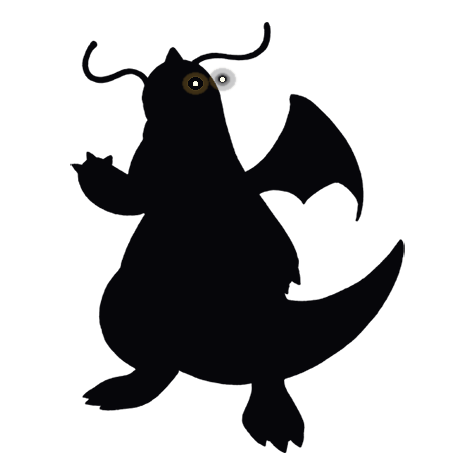
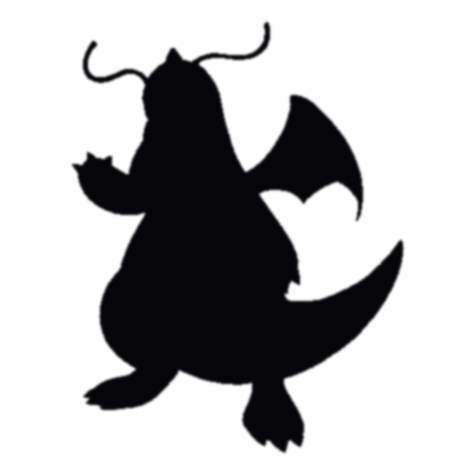
Short v3.1 Dragonite: Giant plate regenerated as clean silhouette (largest-component alpha rebuild — eye cores, rings, halo and detached eye island fully removed)

diff --git a/shorts/segments/sD/index.html b/shorts/segments/sD/index.html
@@ -189,7 +189,7 @@
 </div>
 <script src="assets/gsap.min.js"></script>
 <script>
-const C = {"id": "sD", "start": 0, "dur": 6.98, "types": ["Dragon", "Flying"], "world": ["Dragon", "Flying"], "duration": 6.98, "formLabel": "THE RANKING", "captions": [[0.0, "We ranked all six Dragonite forms", [0.0, 0.16, 0.32, 0.62, 0.86, 1.26], [3, 4]], [1.44, "from weakest to strongest,", [1.44, 1.64, 1.84, 2.12], [1, 3]], [2.84, "climbing past Dratini,", [2.84, 2.98, 3.22], [2]], [3.82, "the Giant, Shadow,", [3.82, 3.9, 4.34], [1, 2]], [4.88, "and Dragonair to base Dragonite", [4.88, 5.02, 5.4, 5.62, 5.82], [1, 4]], [6.24, "at number two\u2014", [6.24, 6.38, 6.5], [2]]], "heroes": [{"art": "Dratini.png", "sil": "Dratini_sil.png", "x": 200, "y": 310, "size": 680, "in": 2.94, "silUntil": 0, "idle": [4.04, 999], "out": 3.8, "punch": 3.27}, {"art": "Dragonite_giant_sil.png", "sil": "Dragonite_giant_sil.png", "x": 209, "y": 319, "size": 661, "in": 3.62, "silUntil": 0, "idle": [4.720000000000001, 999], "out": 4.24}, {"art": "Shadow_Dragonite.png", "sil": "Shadow_Dragonite_sil.png", "x": 237, "y": 344, "size": 613, "in": 4.06, "silUntil": 0, "idle": [5.16, 999], "out": 4.92, "punch": 4.39}, {"art": "Dragonair.png", "sil": "Dragonair_sil.png", "x": 209, "y": 319, "size": 661, "in": 4.74, "silUntil": 0, "idle": [5.84, 999], "out": 5.72, "punch": 5.07}, {"art": "Dragonite.png", "sil": "Dragonite_sil.png", "x": 209, "y": 319, "size": 661, "in": 5.54, "silUntil": 0, "idle": [6.640000000000001, 999], "punch": 5.87}], "headlines": [{"at": 0.05, "html": "WEAKEST TO <span class='gold'>STRONGEST</span>", "out": 6.9, "center": true, "y": 150, "size": 52}, {"at": 3.22, "html": "#6 DRATINI", "out": 3.54, "center": true, "y": 245, "size": 76}, {"at": 3.9, "html": "#5 GIANT", "out": 3.98, "center": true, "y": 245, "size": 76}, {"at": 4.34, "html": "#4 SHADOW", "out": 4.66, "center": true, "y": 245, "size": 76}, {"at": 5.02, "html": "#3 DRAGONAIR", "out": 5.46, "center": true, "y": 245, "size": 76}, {"at": 5.82, "html": "#2 DRAGONITE", "out": 6.93, "center": true, "y": 245, "size": 76}]};
+const C = {"id": "sD", "start": 0, "dur": 6.98, "types": ["Dragon", "Flying"], "world": ["Dragon", "Flying"], "duration": 6.98, "formLabel": "THE RANKING", "captions": [[0.0, "We ranked all six Dragonite forms", [0.0, 0.16, 0.32, 0.62, 0.86, 1.26], [3, 4]], [1.44, "from weakest to strongest,", [1.44, 1.64, 1.84, 2.12], [1, 3]], [2.84, "climbing past Dratini,", [2.84, 2.98, 3.22], [2]], [3.82, "the Giant, Shadow,", [3.82, 3.9, 4.34], [1, 2]], [4.88, "and Dragonair to base Dragonite", [4.88, 5.02, 5.4, 5.62, 5.82], [1, 4]], [6.24, "at number two\u2014", [6.24, 6.38, 6.5], [2]]], "heroes": [{"art": "Dratini.png", "sil": "Dratini_sil.png", "x": 200, "y": 310, "size": 680, "in": 2.94, "silUntil": 0, "idle": [4.04, 999], "out": 3.8, "punch": 3.27}, {"art": "Dragonite_giant_sil.png", "sil": "Dragonite_giant_sil.png", "x": 213, "y": 324, "size": 652, "in": 3.62, "silUntil": 0, "idle": [4.720000000000001, 999], "out": 4.24}, {"art": "Shadow_Dragonite.png", "sil": "Shadow_Dragonite_sil.png", "x": 237, "y": 344, "size": 613, "in": 4.06, "silUntil": 0, "idle": [5.16, 999], "out": 4.92, "punch": 4.39}, {"art": "Dragonair.png", "sil": "Dragonair_sil.png", "x": 209, "y": 319, "size": 661, "in": 4.74, "silUntil": 0, "idle": [5.84, 999], "out": 5.72, "punch": 5.07}, {"art": "Dragonite.png", "sil": "Dragonite_sil.png", "x": 209, "y": 319, "size": 661, "in": 5.54, "silUntil": 0, "idle": [6.640000000000001, 999], "punch": 5.87}], "headlines": [{"at": 0.05, "html": "WEAKEST TO <span class='gold'>STRONGEST</span>", "out": 6.9, "center": true, "y": 150, "size": 52}, {"at": 3.22, "html": "#6 DRATINI", "out": 3.54, "center": true, "y": 245, "size": 76}, {"at": 3.9, "html": "#5 GIANT", "out": 3.98, "center": true, "y": 245, "size": 76}, {"at": 4.34, "html": "#4 SHADOW", "out": 4.66, "center": true, "y": 245, "size": 76}, {"at": 5.02, "html": "#3 DRAGONAIR", "out": 5.46, "center": true, "y": 245, "size": 76}, {"at": 5.82, "html": "#2 DRAGONITE", "out": 6.93, "center": true, "y": 245, "size": 76}]};
 const TYPES = {"Normal": {"pill": ["#d8d6b8", "#a8a77a", "#7d7c52", "#5c5b3a"], "mote": ["m-star", "#ffffff"], "aurora": ["255,240,200", "200,200,180"], "attack": {"archetype": "field", "core": "#ffffff", "sheath": "#ffffff", "aura": "255,255,255"}, "world": {"sky": ["#292536", "#1d1a26", "#131020", "#08070f"], "glow": "rgba(200,190,255,.12)", "deep": "rgba(45,40,75,.5)", "env": "void"}}, "Fire": {"pill": ["#ffb066", "#ee8130", "#c85a10", "#96400a"], "mote": ["m-orb", "#ff9a3d"], "aurora": ["255,140,50", "255,80,40"], "attack": {"archetype": "beam", "core": "#ffffff", "sheath": "#ff9a3d", "aura": "255,154,61"}, "world": {"sky": ["#38150c", "#2b100a", "#1c0a06", "#0d0403"], "glow": "rgba(255,130,50,.16)", "deep": "rgba(80,20,5,.5)", "env": "ember"}}, "Water": {"pill": ["#a8c8ff", "#6390f0", "#3a68c8", "#2a4c96"], "mote": ["m-ring", "#a8dcff"], "aurora": ["90,160,255", "64,224,208"], "attack": {"archetype": "beam", "core": "#ffffff", "sheath": "#a8dcff", "aura": "168,220,255"}, "world": {"sky": ["#0d4266", "#093049", "#051e33", "#020c18"], "glow": "rgba(90,200,255,.17)", "deep": "rgba(2,24,48,.55)", "env": "sea"}}, "Electric": {"pill": ["#ffe066", "#f7d02c", "#d9a400", "#a87e00"], "mote": ["m-spark", "#ffd94d"], "aurora": ["255,217,77", "255,170,0"], "attack": {"archetype": "beam", "core": "#ffffff", "sheath": "#ffd94d", "aura": "255,217,77"}, "world": {"sky": ["#262262", "#1b1a52", "#121240", "#070722"], "glow": "rgba(140,130,255,.18)", "deep": "rgba(40,40,120,.5)", "env": "storm"}}, "Grass": {"pill": ["#b5e48c", "#7ac74c", "#57a02e", "#3f7a20"], "mote": ["m-leaf", "#7ee787"], "aurora": ["140,230,140", "90,200,160"], "attack": {"archetype": "field", "core": "#ffffff", "sheath": "#7ee787", "aura": "126,231,135"}, "world": {"sky": ["#14351f", "#0f2a19", "#081c10", "#040f08"], "glow": "rgba(110,255,160,.13)", "deep": "rgba(10,50,25,.5)", "env": "void"}}, "Ice": {"pill": ["#d8f4f2", "#96d9d6", "#64b8b4", "#478a88"], "mote": ["m-gem", "#bfefff"], "aurora": ["170,240,255", "140,200,255"], "attack": {"archetype": "beam", "core": "#ffffff", "sheath": "#bfefff", "aura": "191,239,255"}, "world": {"sky": ["#123446", "#0e2a3a", "#081c29", "#040e16"], "glow": "rgba(170,230,255,.18)", "deep": "rgba(20,60,90,.5)", "env": "void"}}, "Fighting": {"pill": ["#f08078", "#c22e28", "#96201c", "#6e1613"], "mote": ["m-orb", "#ff6b4a"], "aurora": ["255,110,70", "220,60,50"], "attack": {"archetype": "slam", "core": "#ffffff", "sheath": "#ff6b4a", "aura": "255,107,74"}, "world": {"sky": ["#381c0d", "#2b1509", "#1c0d05", "#0e0603"], "glow": "rgba(255,150,80,.14)", "deep": "rgba(70,35,10,.5)", "env": "void"}}, "Poison": {"pill": ["#d88fd8", "#a33ea1", "#7c2a7c", "#5a1d5a"], "mote": ["m-ring", "#c77dff"], "aurora": ["199,125,255", "140,80,220"], "attack": {"archetype": "swarm", "core": "#ffffff", "sheath": "#c77dff", "aura": "199,125,255"}, "world": {"sky": ["#2a1242", "#1e0f2e", "#130826", "#08040f"], "glow": "rgba(190,110,255,.15)", "deep": "rgba(50,15,90,.5)", "env": "void"}}, "Ground": {"pill": ["#f2dd9a", "#e2bf65", "#c09e42", "#8f742e"], "mote": ["m-orb", "#e8cc7a"], "aurora": ["240,210,130", "210,170,90"], "attack": {"archetype": "slam", "core": "#ffffff", "sheath": "#e8cc7a", "aura": "232,204,122"}, "world": {"sky": ["#33200f", "#241708", "#170d05", "#0b0603"], "glow": "rgba(255,200,110,.13)", "deep": "rgba(70,45,15,.5)", "env": "void"}}, "Flying": {"pill": ["#d3c6ff", "#a98ff3", "#8266d8", "#5f45ab"], "mote": ["m-leaf", "#e8f4ff"], "aurora": ["190,200,255", "150,220,255"], "attack": {"archetype": "swarm", "core": "#ffffff", "sheath": "#e8f4ff", "aura": "232,244,255"}, "world": {"sky": ["#16304f", "#10233d", "#0a1729", "#050b14"], "glow": "rgba(150,200,255,.16)", "deep": "rgba(25,55,100,.5)", "env": "void"}}, "Psychic": {"pill": ["#ff9ebb", "#f95587", "#d12c64", "#9c1f49"], "mote": ["m-orb", "#ff8fb8"], "aurora": ["255,120,180", "190,90,255"], "attack": {"archetype": "beam", "core": "#ffffff", "sheath": "#ff8fb8", "aura": "255,143,184"}, "world": {"sky": ["#33163f", "#260f33", "#180a24", "#0b0512"], "glow": "rgba(255,140,220,.15)", "deep": "rgba(70,20,100,.5)", "env": "void"}}, "Bug": {"pill": ["#d4e86a", "#a6b91a", "#7f9112", "#5c6a0c"], "mote": ["m-orb", "#d8f76a"], "aurora": ["200,240,110", "140,220,120"], "attack": {"archetype": "field", "core": "#ffffff", "sheath": "#d8f76a", "aura": "216,247,106"}, "world": {"sky": ["#1a3312", "#12260e", "#0a1a07", "#050d04"], "glow": "rgba(170,255,120,.13)", "deep": "rgba(20,55,15,.5)", "env": "canopy"}}, "Rock": {"pill": ["#ddd29a", "#b6a136", "#8f7d24", "#665a1a"], "mote": ["m-gem", "#cfc48a"], "aurora": ["210,195,140", "170,155,100"], "attack": {"archetype": "slam", "core": "#ffffff", "sheath": "#cfc48a", "aura": "207,196,138"}, "world": {"sky": ["#2c2417", "#201a12", "#140f09", "#0a0705"], "glow": "rgba(220,190,130,.12)", "deep": "rgba(60,48,28,.5)", "env": "void"}}, "Ghost": {"pill": ["#b3a1d6", "#735797", "#553f73", "#3d2c54"], "mote": ["m-orb", "#b18cff"], "aurora": ["150,110,230", "110,80,200"], "attack": {"archetype": "field", "core": "#ffffff", "sheath": "#b18cff", "aura": "177,140,255"}, "world": {"sky": ["#20133c", "#160f2b", "#0e0820", "#06040f"], "glow": "rgba(150,120,255,.16)", "deep": "rgba(35,20,80,.5)", "env": "void"}}, "Dragon": {"pill": ["#b394ff", "#7d55e0", "#5530b8", "#3f2094"], "mote": ["m-orb", "#57f7d6"], "aurora": ["96,80,255", "64,224,208"], "attack": {"archetype": "beam", "core": "#ffffff", "sheath": "#57f7d6", "aura": "87,247,214"}, "world": {"sky": ["#232c58", "#1a2350", "#121a40", "#070b1e"], "glow": "rgba(120,130,255,.20)", "deep": "rgba(50,60,140,.5)", "env": "void"}}, "Dark": {"pill": ["#a08b78", "#705746", "#544134", "#3a2d24"], "mote": ["m-orb", "#8a7fd6"], "aurora": ["110,95,180", "70,60,130"], "attack": {"archetype": "swarm", "core": "#ffffff", "sheath": "#8a7fd6", "aura": "138,127,214"}, "world": {"sky": ["#12121f", "#0b0b14", "#07070f", "#030308"], "glow": "rgba(110,100,200,.12)", "deep": "rgba(15,15,35,.55)", "env": "void"}}, "Steel": {"pill": ["#e2e2f0", "#b7b7ce", "#8f8fae", "#666680"], "mote": ["m-star", "#e8ecf4"], "aurora": ["200,210,235", "160,180,220"], "attack": {"archetype": "slam", "core": "#ffffff", "sheath": "#e8ecf4", "aura": "232,236,244"}, "world": {"sky": ["#1c242e", "#141a22", "#0d1118", "#05070b"], "glow": "rgba(190,210,235,.14)", "deep": "rgba(35,45,60,.5)", "env": "void"}}, "Fairy": {"pill": ["#ffc2dd", "#d685ad", "#b35685", "#853d63"], "mote": ["m-orb", "#ffb3e2"], "aurora": ["255,150,210", "190,140,255"], "attack": {"archetype": "field", "core": "#ffffff", "sheath": "#ffb3e2", "aura": "255,179,226"}, "world": {"sky": ["#3a1c40", "#2b1530", "#1c0c22", "#0e0512"], "glow": "rgba(255,170,220,.17)", "deep": "rgba(80,30,90,.5)", "env": "void"}}};
 const $ = s => document.querySelector(s);
 const DUR = C.duration;

diff --git a/shorts/segments/sA/index.html b/shorts/segments/sA/index.html
@@ -189,7 +189,7 @@
 </div>
 <script src="assets/gsap.min.js"></script>
 <script>
-const C = {"id": "sA", "start": 0, "dur": 13.98, "types": ["Dragon", "Flying"], "world": ["Dragon", "Flying"], "duration": 13.98, "formLabel": "", "captions": [[0.0, "In 1997, the Pok\u00e9mon anime", [0.0, 0.34, 1.42, 1.44, 1.76], [1]], [2.06, "showed a giant Dragonite", [2.06, 2.34, 2.64, 2.98], [2, 3]], [3.42, "exactly once,", [3.42, 3.86], []], [4.7, "and never explained it, ever.", [4.7, 4.88, 5.28, 5.7, 6.16], [1]], [6.9, "It walked out of the mist", [6.9, 7.06, 7.28, 7.48, 7.54, 7.64], [5]], [7.76, "at Bill's Lighthouse", [7.76, 7.94, 8.2], [1, 2]], [8.46, "with a haunting, singing cry,", [8.46, 8.68, 8.86, 9.44, 9.8], [3, 4]], [10.58, "dwarfed every human on the cliff,", [10.58, 10.78, 11.08, 11.28, 11.46, 11.54], [0, 2]], [11.9, "and never appeared in another episode.", [11.9, 11.96, 12.18, 12.5, 12.72, 13.04], [1]]], "heroes": [{"art": "Dragonite_giant_sil.png", "sil": "Dragonite_giant_sil.png", "x": 209, "y": 354, "size": 661, "in": 0.0, "silUntil": 0, "idle": [1.1, 999], "moves": [{"kind": "sway", "at": 0.6, "dur": 12.6}]}], "habitat": {"img": "hab_fog.jpg", "in": 0.0, "out": 12.65}, "nameBlock": {"name": "GIANT DRAGONITE", "sub": "MYSTERY AT THE LIGHTHOUSE \u00b7 1997", "pills": ["Dragon", "Flying"], "at": 2.98, "out": 13.4}, "chips": [{"at": 4.7, "html": "SEEN ONCE. <span class='gold'>NEVER EXPLAINED.</span>", "out": 6.5, "center": true, "y": 245}, {"at": 9.3, "html": "A HAUNTING, <span class='gold'>SINGING</span> CRY", "out": 10.2, "center": true, "y": 245}, {"at": 10.58, "html": "DWARFED EVERY <span class='gold'>HUMAN</span> ON THE CLIFF", "out": 12.6, "center": true, "y": 245}]};
+const C = {"id": "sA", "start": 0, "dur": 13.98, "types": ["Dragon", "Flying"], "world": ["Dragon", "Flying"], "duration": 13.98, "formLabel": "", "captions": [[0.0, "In 1997, the Pok\u00e9mon anime", [0.0, 0.34, 1.42, 1.44, 1.76], [1]], [2.06, "showed a giant Dragonite", [2.06, 2.34, 2.64, 2.98], [2, 3]], [3.42, "exactly once,", [3.42, 3.86], []], [4.7, "and never explained it, ever.", [4.7, 4.88, 5.28, 5.7, 6.16], [1]], [6.9, "It walked out of the mist", [6.9, 7.06, 7.28, 7.48, 7.54, 7.64], [5]], [7.76, "at Bill's Lighthouse", [7.76, 7.94, 8.2], [1, 2]], [8.46, "with a haunting, singing cry,", [8.46, 8.68, 8.86, 9.44, 9.8], [3, 4]], [10.58, "dwarfed every human on the cliff,", [10.58, 10.78, 11.08, 11.28, 11.46, 11.54], [0, 2]], [11.9, "and never appeared in another episode.", [11.9, 11.96, 12.18, 12.5, 12.72, 13.04], [1]]], "heroes": [{"art": "Dragonite_giant_sil.png", "sil": "Dragonite_giant_sil.png", "x": 213, "y": 359, "size": 652, "in": 0.0, "silUntil": 0, "idle": [1.1, 999], "moves": [{"kind": "sway", "at": 0.6, "dur": 12.6}]}], "habitat": {"img": "hab_fog.jpg", "in": 0.0, "out": 12.65}, "nameBlock": {"name": "GIANT DRAGONITE", "sub": "MYSTERY AT THE LIGHTHOUSE \u00b7 1997", "pills": ["Dragon", "Flying"], "at": 2.98, "out": 13.4}, "chips": [{"at": 4.7, "html": "SEEN ONCE. <span class='gold'>NEVER EXPLAINED.</span>", "out": 6.5, "center": true, "y": 245}, {"at": 9.3, "html": "A HAUNTING, <span class='gold'>SINGING</span> CRY", "out": 10.2, "center": true, "y": 245}, {"at": 10.58, "html": "DWARFED EVERY <span class='gold'>HUMAN</span> ON THE CLIFF", "out": 12.6, "center": true, "y": 245}]};
 const TYPES = {"Normal": {"pill": ["#d8d6b8", "#a8a77a", "#7d7c52", "#5c5b3a"], "mote": ["m-star", "#ffffff"], "aurora": ["255,240,200", "200,200,180"], "attack": {"archetype": "field", "core": "#ffffff", "sheath": "#ffffff", "aura": "255,255,255"}, "world": {"sky": ["#292536", "#1d1a26", "#131020", "#08070f"], "glow": "rgba(200,190,255,.12)", "deep": "rgba(45,40,75,.5)", "env": "void"}}, "Fire": {"pill": ["#ffb066", "#ee8130", "#c85a10", "#96400a"], "mote": ["m-orb", "#ff9a3d"], "aurora": ["255,140,50", "255,80,40"], "attack": {"archetype": "beam", "core": "#ffffff", "sheath": "#ff9a3d", "aura": "255,154,61"}, "world": {"sky": ["#38150c", "#2b100a", "#1c0a06", "#0d0403"], "glow": "rgba(255,130,50,.16)", "deep": "rgba(80,20,5,.5)", "env": "ember"}}, "Water": {"pill": ["#a8c8ff", "#6390f0", "#3a68c8", "#2a4c96"], "mote": ["m-ring", "#a8dcff"], "aurora": ["90,160,255", "64,224,208"], "attack": {"archetype": "beam", "core": "#ffffff", "sheath": "#a8dcff", "aura": "168,220,255"}, "world": {"sky": ["#0d4266", "#093049", "#051e33", "#020c18"], "glow": "rgba(90,200,255,.17)", "deep": "rgba(2,24,48,.55)", "env": "sea"}}, "Electric": {"pill": ["#ffe066", "#f7d02c", "#d9a400", "#a87e00"], "mote": ["m-spark", "#ffd94d"], "aurora": ["255,217,77", "255,170,0"], "attack": {"archetype": "beam", "core": "#ffffff", "sheath": "#ffd94d", "aura": "255,217,77"}, "world": {"sky": ["#262262", "#1b1a52", "#121240", "#070722"], "glow": "rgba(140,130,255,.18)", "deep": "rgba(40,40,120,.5)", "env": "storm"}}, "Grass": {"pill": ["#b5e48c", "#7ac74c", "#57a02e", "#3f7a20"], "mote": ["m-leaf", "#7ee787"], "aurora": ["140,230,140", "90,200,160"], "attack": {"archetype": "field", "core": "#ffffff", "sheath": "#7ee787", "aura": "126,231,135"}, "world": {"sky": ["#14351f", "#0f2a19", "#081c10", "#040f08"], "glow": "rgba(110,255,160,.13)", "deep": "rgba(10,50,25,.5)", "env": "void"}}, "Ice": {"pill": ["#d8f4f2", "#96d9d6", "#64b8b4", "#478a88"], "mote": ["m-gem", "#bfefff"], "aurora": ["170,240,255", "140,200,255"], "attack": {"archetype": "beam", "core": "#ffffff", "sheath": "#bfefff", "aura": "191,239,255"}, "world": {"sky": ["#123446", "#0e2a3a", "#081c29", "#040e16"], "glow": "rgba(170,230,255,.18)", "deep": "rgba(20,60,90,.5)", "env": "void"}}, "Fighting": {"pill": ["#f08078", "#c22e28", "#96201c", "#6e1613"], "mote": ["m-orb", "#ff6b4a"], "aurora": ["255,110,70", "220,60,50"], "attack": {"archetype": "slam", "core": "#ffffff", "sheath": "#ff6b4a", "aura": "255,107,74"}, "world": {"sky": ["#381c0d", "#2b1509", "#1c0d05", "#0e0603"], "glow": "rgba(255,150,80,.14)", "deep": "rgba(70,35,10,.5)", "env": "void"}}, "Poison": {"pill": ["#d88fd8", "#a33ea1", "#7c2a7c", "#5a1d5a"], "mote": ["m-ring", "#c77dff"], "aurora": ["199,125,255", "140,80,220"], "attack": {"archetype": "swarm", "core": "#ffffff", "sheath": "#c77dff", "aura": "199,125,255"}, "world": {"sky": ["#2a1242", "#1e0f2e", "#130826", "#08040f"], "glow": "rgba(190,110,255,.15)", "deep": "rgba(50,15,90,.5)", "env": "void"}}, "Ground": {"pill": ["#f2dd9a", "#e2bf65", "#c09e42", "#8f742e"], "mote": ["m-orb", "#e8cc7a"], "aurora": ["240,210,130", "210,170,90"], "attack": {"archetype": "slam", "core": "#ffffff", "sheath": "#e8cc7a", "aura": "232,204,122"}, "world": {"sky": ["#33200f", "#241708", "#170d05", "#0b0603"], "glow": "rgba(255,200,110,.13)", "deep": "rgba(70,45,15,.5)", "env": "void"}}, "Flying": {"pill": ["#d3c6ff", "#a98ff3", "#8266d8", "#5f45ab"], "mote": ["m-leaf", "#e8f4ff"], "aurora": ["190,200,255", "150,220,255"], "attack": {"archetype": "swarm", "core": "#ffffff", "sheath": "#e8f4ff", "aura": "232,244,255"}, "world": {"sky": ["#16304f", "#10233d", "#0a1729", "#050b14"], "glow": "rgba(150,200,255,.16)", "deep": "rgba(25,55,100,.5)", "env": "void"}}, "Psychic": {"pill": ["#ff9ebb", "#f95587", "#d12c64", "#9c1f49"], "mote": ["m-orb", "#ff8fb8"], "aurora": ["255,120,180", "190,90,255"], "attack": {"archetype": "beam", "core": "#ffffff", "sheath": "#ff8fb8", "aura": "255,143,184"}, "world": {"sky": ["#33163f", "#260f33", "#180a24", "#0b0512"], "glow": "rgba(255,140,220,.15)", "deep": "rgba(70,20,100,.5)", "env": "void"}}, "Bug": {"pill": ["#d4e86a", "#a6b91a", "#7f9112", "#5c6a0c"], "mote": ["m-orb", "#d8f76a"], "aurora": ["200,240,110", "140,220,120"], "attack": {"archetype": "field", "core": "#ffffff", "sheath": "#d8f76a", "aura": "216,247,106"}, "world": {"sky": ["#1a3312", "#12260e", "#0a1a07", "#050d04"], "glow": "rgba(170,255,120,.13)", "deep": "rgba(20,55,15,.5)", "env": "canopy"}}, "Rock": {"pill": ["#ddd29a", "#b6a136", "#8f7d24", "#665a1a"], "mote": ["m-gem", "#cfc48a"], "aurora": ["210,195,140", "170,155,100"], "attack": {"archetype": "slam", "core": "#ffffff", "sheath": "#cfc48a", "aura": "207,196,138"}, "world": {"sky": ["#2c2417", "#201a12", "#140f09", "#0a0705"], "glow": "rgba(220,190,130,.12)", "deep": "rgba(60,48,28,.5)", "env": "void"}}, "Ghost": {"pill": ["#b3a1d6", "#735797", "#553f73", "#3d2c54"], "mote": ["m-orb", "#b18cff"], "aurora": ["150,110,230", "110,80,200"], "attack": {"archetype": "field", "core": "#ffffff", "sheath": "#b18cff", "aura": "177,140,255"}, "world": {"sky": ["#20133c", "#160f2b", "#0e0820", "#06040f"], "glow": "rgba(150,120,255,.16)", "deep": "rgba(35,20,80,.5)", "env": "void"}}, "Dragon": {"pill": ["#b394ff", "#7d55e0", "#5530b8", "#3f2094"], "mote": ["m-orb", "#57f7d6"], "aurora": ["96,80,255", "64,224,208"], "attack": {"archetype": "beam", "core": "#ffffff", "sheath": "#57f7d6", "aura": "87,247,214"}, "world": {"sky": ["#232c58", "#1a2350", "#121a40", "#070b1e"], "glow": "rgba(120,130,255,.20)", "deep": "rgba(50,60,140,.5)", "env": "void"}}, "Dark": {"pill": ["#a08b78", "#705746", "#544134", "#3a2d24"], "mote": ["m-orb", "#8a7fd6"], "aurora": ["110,95,180", "70,60,130"], "attack": {"archetype": "swarm", "core": "#ffffff", "sheath": "#8a7fd6", "aura": "138,127,214"}, "world": {"sky": ["#12121f", "#0b0b14", "#07070f", "#030308"], "glow": "rgba(110,100,200,.12)", "deep": "rgba(15,15,35,.55)", "env": "void"}}, "Steel": {"pill": ["#e2e2f0", "#b7b7ce", "#8f8fae", "#666680"], "mote": ["m-star", "#e8ecf4"], "aurora": ["200,210,235", "160,180,220"], "attack": {"archetype": "slam", "core": "#ffffff", "sheath": "#e8ecf4", "aura": "232,236,244"}, "world": {"sky": ["#1c242e", "#141a22", "#0d1118", "#05070b"], "glow": "rgba(190,210,235,.14)", "deep": "rgba(35,45,60,.5)", "env": "void"}}, "Fairy": {"pill": ["#ffc2dd", "#d685ad", "#b35685", "#853d63"], "mote": ["m-orb", "#ffb3e2"], "aurora": ["255,150,210", "190,140,255"], "attack": {"archetype": "field", "core": "#ffffff", "sheath": "#ffb3e2", "aura": "255,179,226"}, "world": {"sky": ["#3a1c40", "#2b1530", "#1c0c22", "#0e0512"], "glow": "rgba(255,170,220,.17)", "deep": "rgba(80,30,90,.5)", "env": "void"}}};
 const $ = s => document.querySelector(s);
 const DUR = C.duration;
